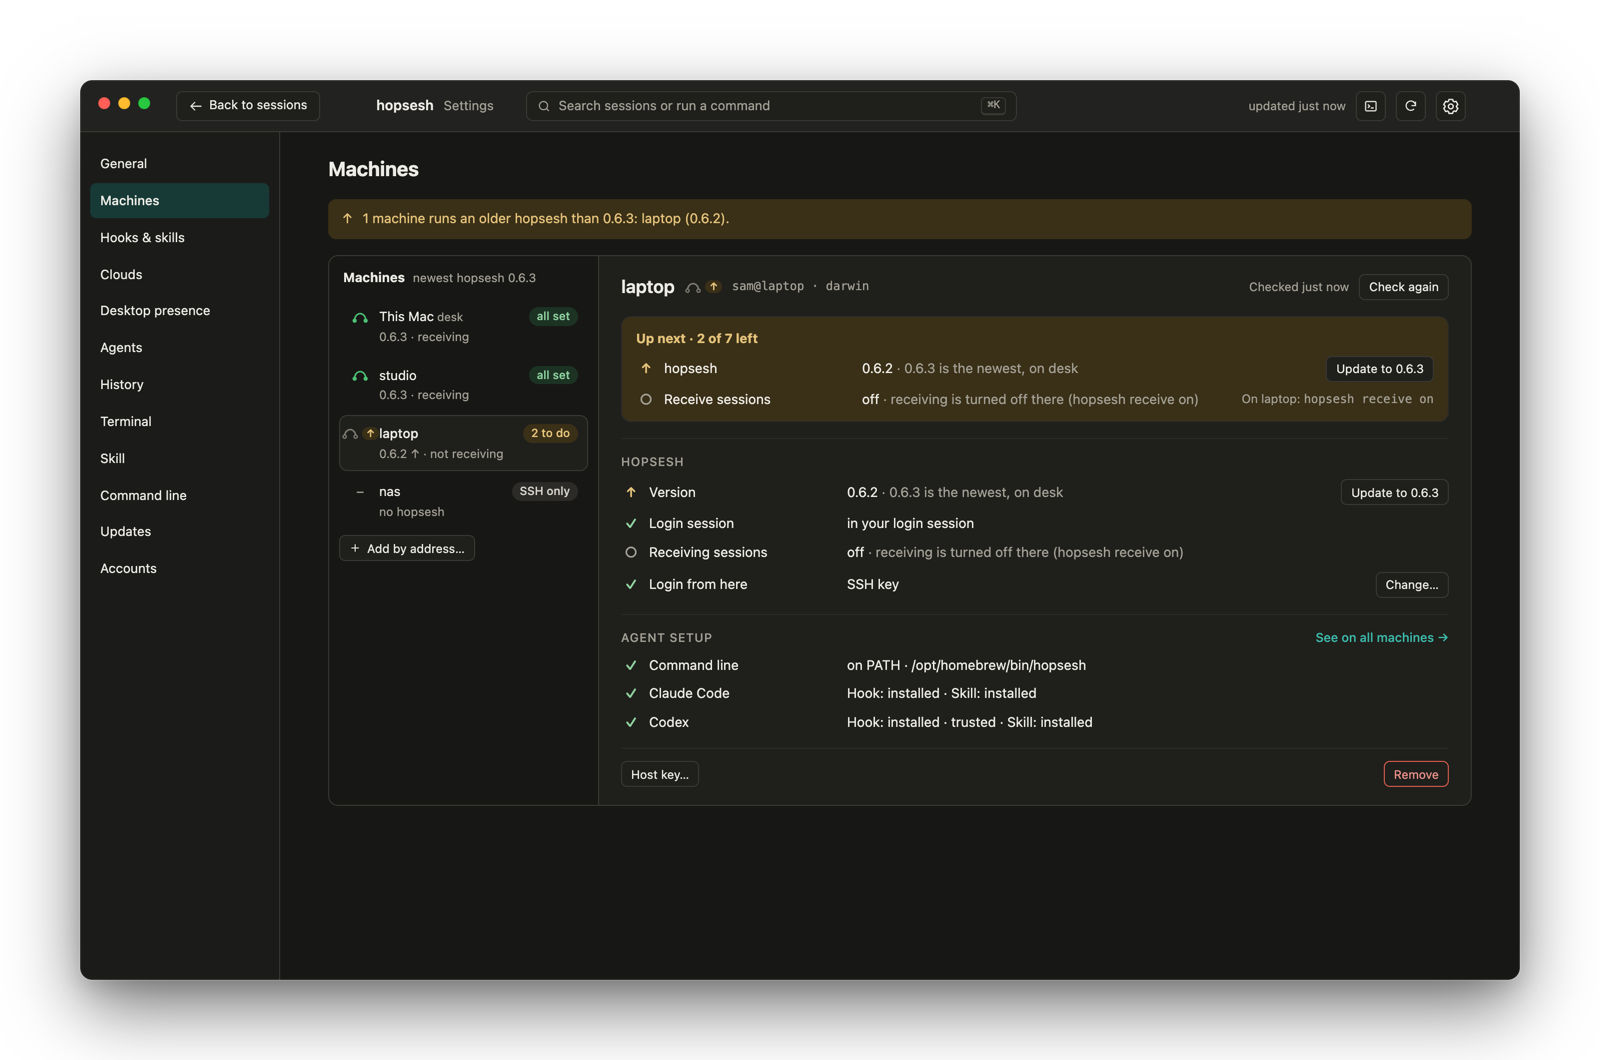
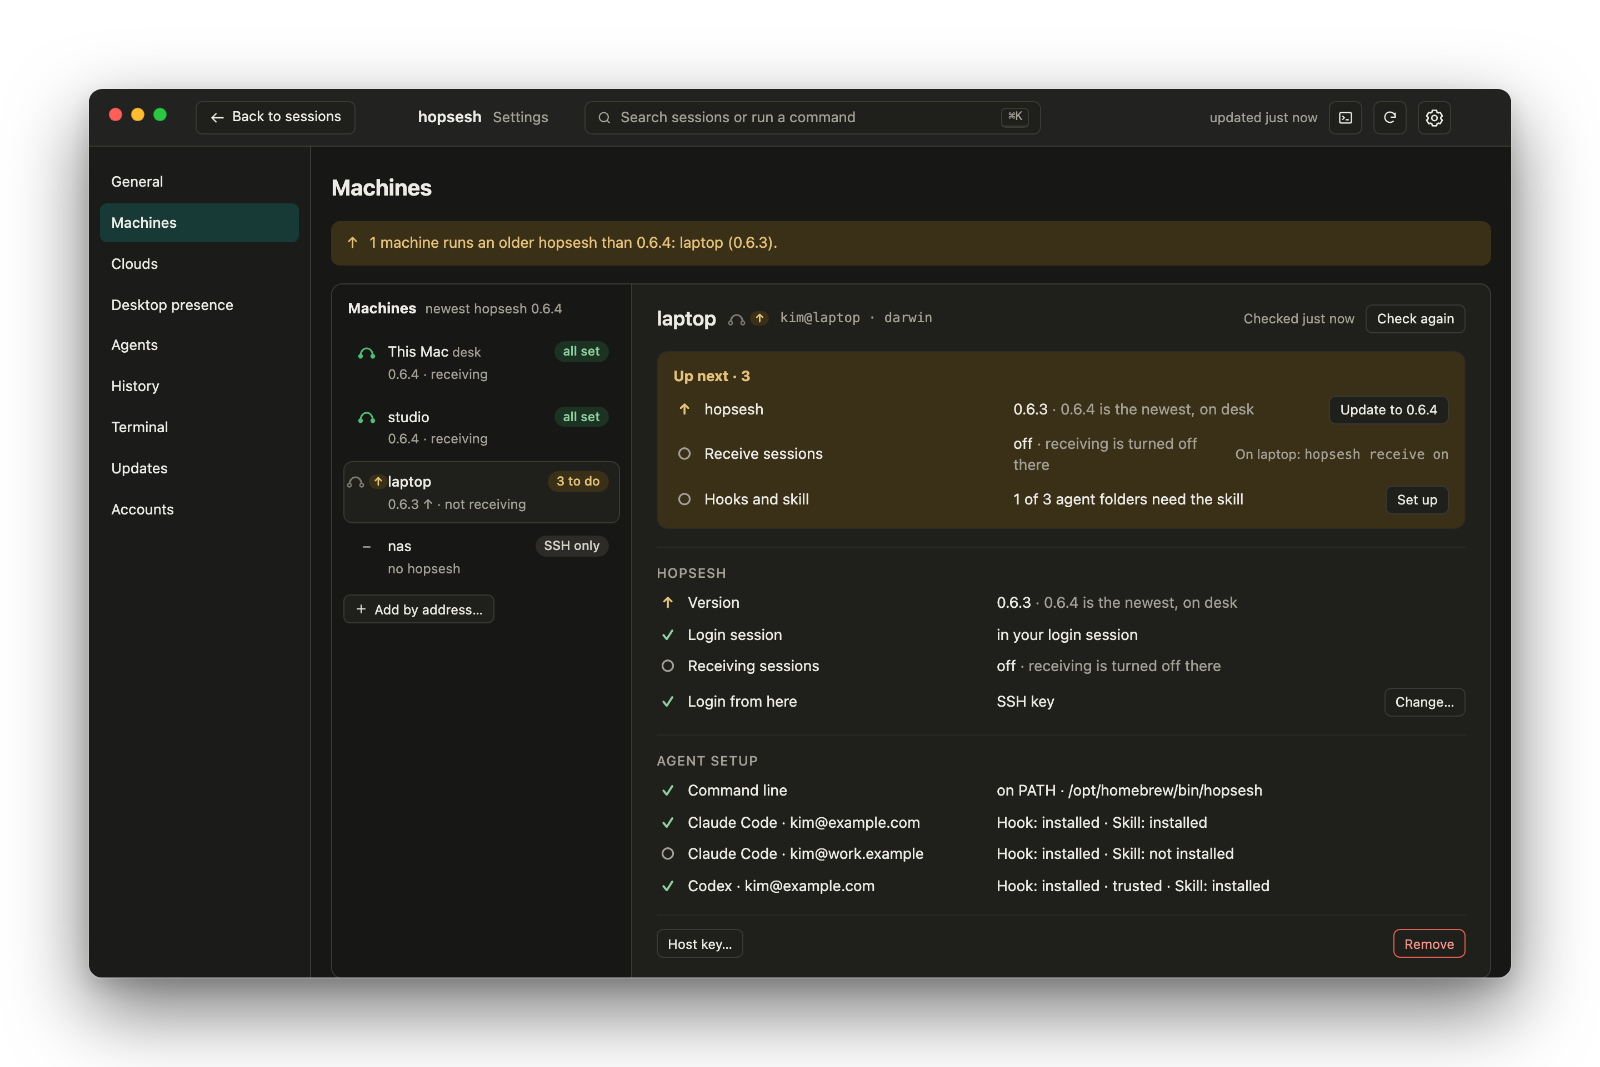
README: the 0.6.4 Machines screen, and two more Why not entries

diff --git a/README.md b/README.md
@@ -337,16 +337,18 @@ hopsesh doctor --all-machines                     # hopsesh, hooks and skill on 
 
 `hopsesh hosts status` checks every machine: whether hopsesh is installed and its version
 against the newest on your machines, whether it runs in your login session and receives
-sessions, whether its command is on PATH, and each agent folder's hook and skill. It prints the
-command that fixes each check and exits 3 when a machine needs something. In the app,
-**Settings › Machines** shows the same for the machine you select, with **Up next**: only what
-is left, each with its fix. Beside every machine is hopsesh's mark: green and filled when it
+sessions, whether its command is on PATH, and the hook and skill in each agent folder, named by
+who is signed in there (`Claude Code · you@example.com`). It prints the command that fixes each
+check and exits 3 when a machine needs something. In the app, **Settings › Machines** is the
+one place for all of it: select a machine to see the same checks, with **Up next** listing only
+what is left, each with its fix (one **Set up** covers every agent folder's hooks and skill).
+Beside every machine is hopsesh's mark: green and filled when it
 receives sessions, gray and hollow when hopsesh is installed but doesn't receive, none without
 hopsesh, and ↑ when a newer hopsesh is on another machine.
 
 <picture>
   <source media="(prefers-color-scheme: dark)" srcset="docs/assets/machines-dark.png">
-  <img src="docs/assets/machines-light.png" alt="Settings › Machines in the hopsesh app: This Mac and studio are all set and receive sessions; laptop is selected, marked gray and hollow with an up arrow, and its Up next lists updating hopsesh from 0.6.2 to 0.6.3 and turning on receiving; nas has no hopsesh and is reached over SSH only" width="900">
+  <img src="docs/assets/machines-light.png" alt="Settings › Machines in the hopsesh app: This Mac and studio are all set and receive sessions; laptop is selected, marked gray and hollow with an up arrow, and its Up next lists updating hopsesh from 0.6.3 to 0.6.4, turning on receiving, and setting up the skill in one of its three agent folders; nas has no hopsesh and is reached over SSH only" width="900">
 </picture>
 
 ## Another folder, same session
@@ -566,6 +568,12 @@ including the file-format traps hopsesh handles, are in [docs/design.md](docs/de
 - **Codex's own import of Claude Code sessions?** It converts on one machine. hopsesh uses it
   when you ask (`--via import`) and adds machines, the repository, a loss report, a briefing
   and a way home that keeps the original session intact.
+- **Claude Code's session list on every device?** A session you open from another device
+  still runs on the machine it started on, with that machine's files. hopsesh moves it: it
+  continues where you are, in your copy of the repository, and can come back.
+- **The Codex app's hand-off to an SSH host?** It moves a Codex chat and its Git state to a
+  connected host with a saved project. hopsesh does that for Claude Code and Codex alike,
+  between any of your machines, into another agent, and to and from the clouds.
 - **Remote Control?** Remote Control lets you drive a session that keeps running where it
   is. hopsesh moves the session, so it continues on the machine you're at, with that
   machine's files and tools. It can turn Remote Control on for the moved session.
